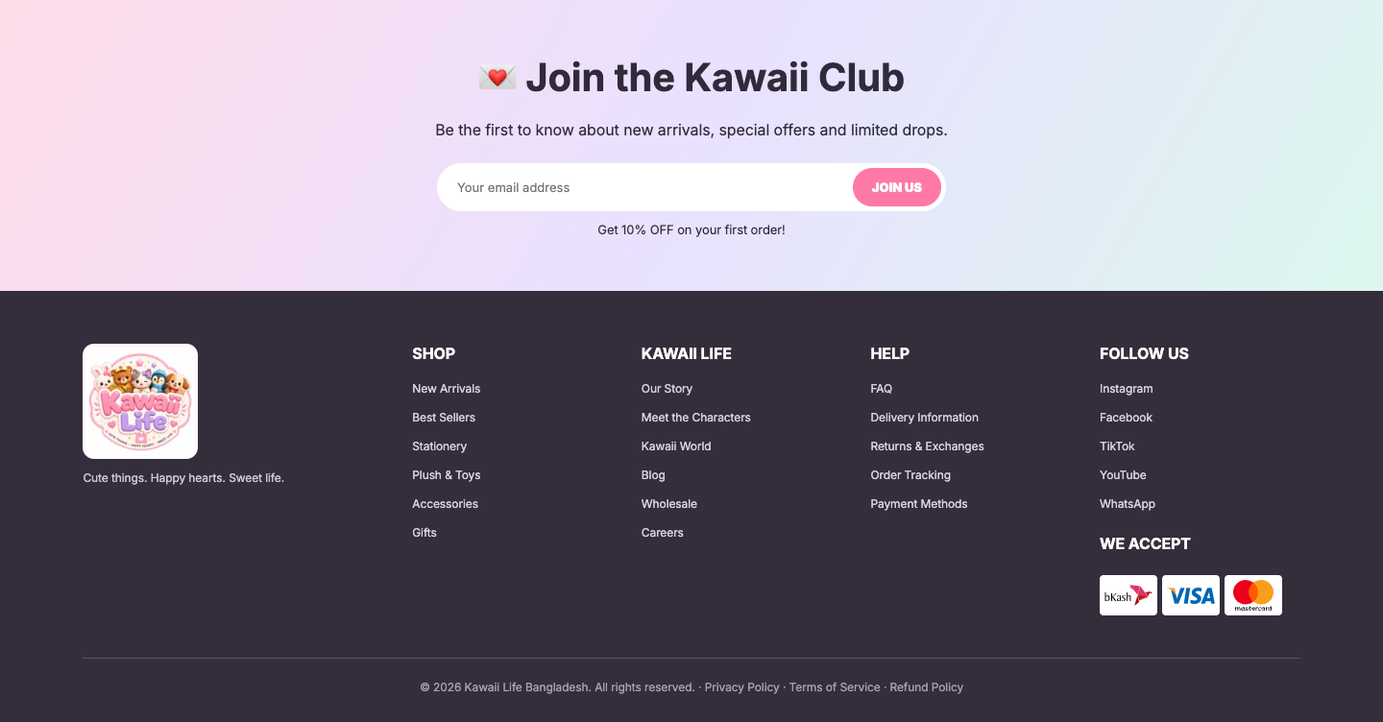
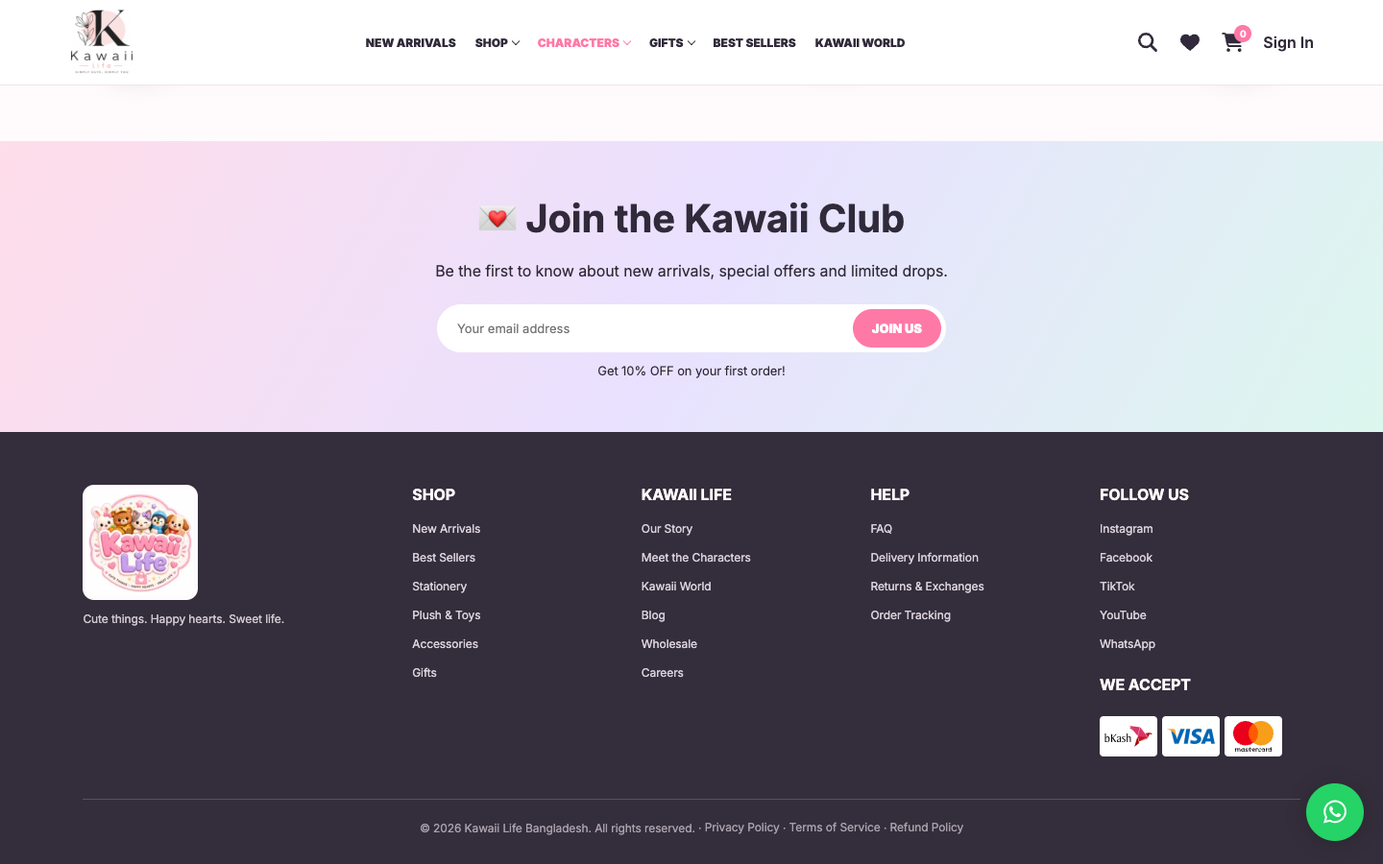
Cover the theme and plugin changes since the guide was written
Order flow statuses (Placed → Confirmed → Processing → Shipped →
Delivered, plus Returned), Steadfast sending and status sync, the
two-tab Order Tracking page, order-flow emails and the new email look,
NEW / BESTSELLER badges, gift box bundles, Theme Options' Animations,
Abandoned-cart SMS and Social profiles, SMS Contacts export, Most Added
Products and the report shortcuts in the Kawaii Life menu. "Not live
yet" drops what is now done, and outdated screenshots are retaken.

diff --git a/guide/02-theme-options.md b/guide/02-theme-options.md
@@ -4,7 +4,7 @@
 
 **Where:** **Kawaii Life → Theme Options**
 
-Theme Options holds the shop-wide settings that were built for Kawaii Life. The sections are listed on the left. Click one to open it, change what you need, then click the pink **Save Changes** button (top-right or at the bottom).
+Theme Options holds the shop-wide settings that were built for Kawaii Life. It's the first item under **Kawaii Life**, so clicking **Kawaii Life** itself opens it too. The sections are listed on the left. Click one to open it, change what you need, then click the pink **Save Changes** button (top-right or at the bottom).
 
 ## 2.1 Header: announcement bar, logo and icons
 
@@ -39,7 +39,11 @@ Theme Options holds the shop-wide settings that were built for Kawaii Life. The 
 - **Page heading**: the **Title** ("All Products"), the **Title emoji** (🎀) and the **Short description** under it. The emoji also shows on category pages. Leave the description empty to hide it.
 - **Catalog → Products per page**: how many products each page of the shop shows.
 - **Price ranges**: the price choices in the shop's filter sidebar. Each range has a **Min price** and a **Max price**. Leave Min empty for "Under …" or Max empty for "Over …"; the labels are written for you.
-- **Product cards**: show or hide the **Sale badge**, the **Star rating** and a **Quick add to cart** button on each product card.
+- **Product cards**: show or hide the **Sale badge**, the **Star rating** and a **Quick add to cart** button on each product card, and set up the two automatic badges:
+  - **NEW badge**: marks products published in the last **NEW badge active days** (30 by default).
+  - **Bestseller badge**: marks products that have sold at least the **Bestseller sales threshold** (20 by default).
+
+  The badges show in the corner of the product card and on the product page's main picture. One product can be set differently: see [7.7 NEW and BESTSELLER badges](07-products.md#77-new-and-bestseller-badges).
 
 ![The shop page with its heading, filters and product cards](../images/fe-shop.png)
 
@@ -63,14 +67,20 @@ This section works out the **estimated delivery dates** customers see on product
 - **Holidays**: click **+ Add holiday** for Eid and other closures. Give it a name and a **From** date; add a **To** date if it's longer than one day. Holiday days are skipped when the dates are worked out.
 - **Product page**: shows or hides the "Expected delivery" line on product pages. **When the zone is unknown** decides what a visitor who hasn't given an address sees. **Label** is the text in front of the dates.
 
+- **Order tracking**: the two ways shoppers can look up an order on the **Order Tracking** page, each its own tab. **Order number + phone** finds an order by its number and the phone it was placed with. **Steadfast parcel tracking** takes a Steadfast tracking link or code. Switch one off and the page shows the other without tabs; switch both off and the page says tracking isn't available.
+
 💡 Once an order is placed, its delivery dates are saved with it. Changing these settings later doesn't change dates you've already promised.
 
 ## 2.5 General
 
 ![Theme Options, General section](../images/to-general.png)
 
+- **Tagline**: the line under the logo at the bottom of every email the shop sends. Empty, the emails say "Cute things. Happy hearts. Sweet life."
 - **Support email**: the address the "Email us" buttons on the information pages use. If it's empty, those buttons are hidden.
 - **Dummy email extension**: used for accounts made with a phone number only. Leave this as it is.
+- **Animations**: the gentle movement on the shop: pages and sections sliding in, product cards appearing a row at a time, and the small pops when something goes into the cart or wishlist. Switch **Animate the storefront** off and every page shows at once and stays still. Visitors whose phone or computer asks for less motion never see the animations either way.
+- **Abandoned-cart SMS**: texts a shopper who left items in their cart a link back to it, at the same time as the first reminder email (see [20.1](20-sms-email-newsletter.md#201-sms-alpha-sms)). Switch **Text abandoned carts** off to send only the emails.
+- **Social profiles**: your Facebook, Instagram, TikTok, YouTube and WhatsApp addresses. They make the **Follow Us** links in the footer and the icons at the bottom of the emails. A channel left empty isn't shown. For WhatsApp, use a chat link: `https://wa.me/` followed by the number with the country code, no + or spaces (for example `https://wa.me/8801712345678`).
 
 ## 2.6 Sections that aren't connected yet
 
@@ -78,8 +88,7 @@ These sections are in Theme Options, but changing them doesn't change the site y
 
 | Section | Edit it here instead |
 | --- | --- |
-| **General → Tagline** | **Settings → General → Tagline** |
-| **General → Social profiles** | The footer, in **Appearance → Editor** (see [section 4](04-footer-and-newsletter.md)) |
+| **General → Tagline** (for the website footer) | **Settings → General → Tagline**. The Theme Options tagline is used in the emails only |
 | **Home page → Hero** | The **Hero Slider** block on the Home page (see [section 6.2](06-home-page.md#62-the-hero-slider)) |
 | **Home page → Friends** | **Products → Friends**, and the Friends block on the Home page |
 | **Wishlist** | **TI Wishlist → General Settings** |

diff --git a/guide/10-orders.md b/guide/10-orders.md
@@ -7,7 +7,7 @@
 ![The orders list](../images/orders-list.png)
 
 - **New orders** appear at the top. The number next to **Orders** in the menu is how many are waiting.
-- Use the status links above the list (**Processing**, **On hold**, **Pending payment** …) to filter.
+- Use the status links above the list (**Placed**, **Confirmed**, **Processing**, **Shipped** …) to filter.
 - 💡 **Pending payment** lists orders that were started but not paid: your incomplete orders.
 - Search by order number, customer name, phone or email with the box at the top-right. A barcode scanner works here too: scan an invoice or order label to find the order.
 
@@ -17,19 +17,49 @@ Click an order to open it.
 
 ![An order](../images/order-edit.png)
 
-- **Status**: change it as the order moves along, then click **Update**:
-  - **Pending payment**: started, not paid.
-  - **Processing**: paid or Cash on Delivery; pack it.
-  - **On hold**: waiting for you to confirm a bank payment.
-  - **Completed**: delivered.
-  - **Cancelled**, **Refunded**, **Failed**.
+- **Status**: change it as the order moves along, then click **Update** (see [10.2](#102-the-order-flow) for the whole flow).
 - **Shipping** shows the delivery address and phone, and the **Estimated delivery** dates the customer was promised.
 - **Billing** is filled in from the delivery address automatically. Customers only ever see their delivery address.
-- **To change items**, set the order's status to **On hold** or **Pending payment** first. Then use **Add item(s)**, change quantities, or click **×** on an item, and click **Recalculate**.
+- **To change items**, set the order's status to **Placed** or **Pending payment** first. Then use **Add item(s)**, change quantities, or click **×** on an item, and click **Recalculate**.
 - **Order notes** (right): add a **Private note** for your team, or a **Note to customer**, which emails them.
 - **Order actions** (top-right): resend the order emails to the customer.
 
-💡 Customers get an email when their order is received, starts processing and is completed. Their order page in **My Account** and the **Order Tracking** page show the same status.
+💡 To move many orders at once, tick them in the list, choose **Change status to …** from **Bulk actions** and click **Apply**.
+
+## 10.2 The order flow
+
+Every order moves through the same steps:
+
+**Placed → Confirmed → Processing → Shipped → Delivered**
+
+| Status | What it means | How it gets there |
+| --- | --- | --- |
+| **Pending payment** | Started, not paid | By itself, when an online payment isn't finished |
+| **Placed** | A new order waiting for you | By itself: every Cash on Delivery and bank transfer order starts here |
+| **Confirmed** | You've called the customer (COD) or seen the money (bank transfer) | You set it. An order paid online starts here |
+| **Processing** | Being packed | You set it |
+| **Shipped** | With the courier | By itself when you send the order to Steadfast ([10.3](#103-sending-orders-to-steadfast)), or you set it |
+| **Delivered** | The customer has it | By itself from Steadfast, or you set it |
+| **Returned** | The parcel came back: refused, unreachable or sent back | By itself from Steadfast, or you set it. The items go back into stock and the order is left out of the sales reports |
+| **Cancelled**, **Refunded**, **Failed** | As WooCommerce has always had them | |
+
+The customer is emailed at each step ([20.2](20-sms-email-newsletter.md#202-order-emails)), and can follow the order on a five-step tracker in **My Account** and on the **Order Tracking** page, each step with the date and time it was reached.
+
+💡 *Placed* and *Delivered* are WooCommerce's *On hold* and *Completed* under the shop's own names, so plugins and reports that mention On hold or Completed mean these.
+
+## 10.3 Sending orders to Steadfast
+
+**Where:** **WooCommerce → Orders**, and **SteadFast** in the menu for the account settings
+
+In the orders list, the **Send to SteadFast** column has a **Send** button on each order. The **Amount** box beside it is the cash the courier collects: leave it empty to collect the order total, or type `0` for an order that's already paid. To send many at once, tick the packed orders, choose **Send to SteadFast** from **Bulk actions** and click **Apply**.
+
+Each order gets a Steadfast consignment and its **tracking code**, and moves to **Shipped** by itself. The Shipped email gives the customer the tracking code and a **Track your order** button.
+
+When Steadfast reports the parcel delivered, the order moves to **Delivered**; if it comes back, to **Returned**. This happens through Steadfast's webhook, or when you click **Check** in the order's **DeliveryStatus** column. A part delivery (the customer kept some items) is marked Delivered, with an order note reminding you to refund the items that come back.
+
+💡 Orders only ever move forward by themselves, and an order that's Cancelled, Refunded, Failed or Returned is never reopened.
+
+⚠ The webhook needs the **Webhook Callback URL** and **Webhook Secret Token** from **SteadFast** pasted into the API Webhook section of your Steadfast merchant dashboard. Without them, statuses only update when you click **Check**.
 
 ---
 

diff --git a/guide/20-sms-email-newsletter.md b/guide/20-sms-email-newsletter.md
@@ -11,9 +11,20 @@
 Alpha SMS sends the login and sign-up codes, and can text customers when their order changes status.
 
 - **Balance** shows how much SMS credit is left.
-- **Notify Customer**: switch on the order statuses you want a text for (for example *Processing* and *Completed*), then click **Save all changes**.
+- **Notify Customer**: switch on the order statuses you want a text for (for example *Confirmed*, *Shipped* and *Delivered*), then click **Save all changes**. Every step of the order flow ([10.2](10-orders.md#102-the-order-flow)) is listed.
 - **Notify Admin on New Order** texts you when an order comes in.
 - **Alpha SMS → Campaign** sends one message to many customers at once.
+- **Abandoned carts**: a shopper who leaves items in their cart gets one text with a link back to it, at the same time as Cart Abandonment Recovery's first reminder email, to the phone they typed at checkout. Switch it off in **Theme Options → General → Abandoned-cart SMS** ([2.5](02-theme-options.md#25-general)).
+
+**Promotional campaigns: SMS Contacts**
+
+**Where:** **Kawaii Life → SMS Contacts**
+
+1. Optionally choose **Last ordered within** to keep only recent customers.
+2. Click **Download CSV**. The file lists each customer's phone once, written as `8801XXXXXXXXX`, with their name, number of orders, last order date and total spent. Numbers seen only on failed or cancelled orders are left out.
+3. Upload the file to your Alpha SMS panel and send the campaign from there.
+
+![SMS Contacts](../images/sms-contacts.png)
 
 ⚠ If the balance runs out, customers can't log in or sign up. Top it up on your Alpha SMS account. The record of sent messages is on the Alpha SMS website.
 
@@ -23,7 +34,23 @@ Alpha SMS sends the login and sign-up codes, and can text customers when their o
 
 **Where:** **WooCommerce → Settings → Emails**
 
-Each email (New order, Processing order, Completed order …) can be switched on or off and its subject and heading changed. The **Email sender options** at the bottom set the "From" name and address.
+Customers get an email at each step of the order flow ([10.2](10-orders.md#102-the-order-flow)):
+
+| Email | Sent when the order is |
+| --- | --- |
+| **Order placed** | Placed: a COD order before you call to confirm it, or a bank transfer before the money arrives |
+| **Order confirmed** | Confirmed |
+| **Order shipped** | Shipped, with the Steadfast tracking code and a **Track your order** button |
+| **Order delivered** | Delivered |
+| **Order returned** | Returned |
+
+The others link to the order in the customer's **My Account** (or, for a guest, to the Order Tracking page). WooCommerce's own **Processing order** email is switched off, since Confirmed already tells the customer; switch it on here if you want it.
+
+Each email can be switched on or off and its subject and heading changed: click **Manage**. The **Email sender options** at the bottom set the "From" name and address.
+
+**The look.** Every email the shop sends (orders, accounts, password resets) is in the Kawaii Life style: the logo, a white rounded card with a pink-to-lavender stripe, a small emoji badge for the kind of email, and a dark footer with the tagline, links to the shop, Order Tracking and My Account, and your social links. The tagline and social links come from **Theme Options → General** ([2.5](02-theme-options.md#25-general)). To see one, scroll to **Email preview** at the bottom of this page and pick the email from the drop-down.
+
+<img src="../images/email-preview.png" alt="An order email in the Kawaii Life style" width="420">
 
 ## 20.3 Newsletter (Brevo)
 

diff --git a/guide/07-products.md b/guide/07-products.md
@@ -17,6 +17,7 @@
    - **Linked Products**: see [7.5](#75-you-may-also-like-and-complete-your-set).
    - **Attributes** and **Variations**: for sizes or colours (see [7.4](#74-products-with-colours-sizes-or-styles)).
    - **Product page**: Kawaii Life's own tab (see [7.3](#73-the-product-page-tab-taglines-video-shipping-and-returns-text)).
+   - **Product Badges**: the NEW and BESTSELLER badges for this product (see [7.7](#77-new-and-bestseller-badges)).
 4. On the right:
    - **Product categories**: tick its category.
    - **Friends**: tick the character(s), if it's a character product.
@@ -79,6 +80,46 @@ Customers can give a review a title and attach one photo or video. Reviews with 
 
 - Hover over a review and click **Approve** to publish it, **Spam** or **Trash** to remove it.
 - The **Photo / video** column shows what they attached. Check it before approving.
+
+## 7.7 NEW and BESTSELLER badges
+
+Product cards and the product page's main picture can carry a small **NEW** or **BESTSELLER** badge in the corner, next to the Sale badge. They're added by themselves:
+
+- **NEW**: products published in the last 30 days.
+- **BESTSELLER**: products whose total sales reach the threshold you set.
+
+Both numbers, and switches to turn each badge off for the whole shop, are in **Kawaii Life → Theme Options → Shop page → Product cards** (see [2.2](02-theme-options.md#22-shop-page)).
+
+**To change one product's badges**, edit the product and open the **Product Badges** tab in **Product data**:
+
+![The Product Badges tab](../images/product-badges-tab.png)
+
+- **NEW badge**: **Automatic (based on publish date)** is the usual choice. **Always show** keeps the badge on (for a product you want to keep promoting as new); **Never show (disable)** keeps it off.
+- **Disable Bestseller**: tick it to never show the BESTSELLER badge on this product, however much it sells.
+
+Click **Update** to save.
+
+## 7.8 Gift boxes (bundles)
+
+The **Study Box**, **Kawaii Girl Box** and **Premium Gift Box** are **bundles**: one product made of several others. The product page lists what's inside, each item with its picture, and the cart, cart drawer and checkout show the box with its items underneath.
+
+**To make a new gift box:**
+
+1. Click **Add new product** and type its name, description and pictures as for any product.
+2. In **Product data**, change the drop-down at the top to **Smart bundle**.
+3. In the **Bundled Products** tab, search for each product to put in the box and set how many of each.
+4. **Price**: by itself, the box costs the items' prices added up (less any **Discount** you set in the same tab). To charge your own price instead, as the three gift boxes do, tick **Disable auto calculate price.** and type the price in **General**.
+5. Click **Publish**.
+
+![The Bundled Products tab of a gift box](../images/product-bundle-tab.png)
+
+On the site, the box's page lists everything inside it:
+
+![A gift box on the site](../images/fe-bundle.png)
+
+The shop-wide bundle options (where the item list sits on the product page, how the price is shown) are under **WPClever → Product Bundles**.
+
+💡 Unless you tick **Enable stock management at bundle level.**, a box is in stock only while every item in it is.
 
 ---
 

diff --git a/guide/14-customer-experience.md b/guide/14-customer-experience.md
@@ -4,7 +4,7 @@
 
 You don't need to set these up; they're shown here so you know what customers see.
 
-**Cart**: with the free-delivery progress bar and "You will love these" suggestions.
+**Cart**: with the free-delivery progress bar and "You will love these" suggestions. A gift box is listed with the items inside it, in the cart, the cart drawer and checkout.
 
 ![The cart page](../images/fe-cart.png)
 
@@ -12,7 +12,7 @@ You don't need to set these up; they're shown here so you know what customers se
 
 ![The checkout page](../images/fe-checkout.png)
 
-**My Account**: a greeting, order and wishlist counts and the latest orders. The menu on the left has My Orders, Downloads, Saved Address, My Wishlist, Account Management (name, phone, photo) and Change Password.
+**My Account**: a greeting, order and wishlist counts and the latest orders. The menu on the left has My Orders, Downloads, Saved Address, My Wishlist, Account Management (name, phone, photo) and Change Password. **My Orders** has two tabs: **Active** (Placed, Confirmed, Processing, Shipped) and **Previous** (Delivered, Cancelled, Refunded, Failed and Returned).
 
 ![My Account dashboard](../images/fe-account.png)
 
@@ -22,7 +22,7 @@ You don't need to set these up; they're shown here so you know what customers se
 
 ![Account Management](../images/fe-account-details.png)
 
-**One order**: status, estimated delivery, items, delivery address and invoice.
+**One order**: status, estimated delivery, the five-step tracker (Placed, Confirmed, Processing, Shipped, Delivered, each with its date and time), items, delivery address and invoice. A returned order shows a Returned notice instead of the tracker.
 
 ![A single order in My Account](../images/fe-thankyou.png)
 
@@ -33,6 +33,8 @@ You don't need to set these up; they're shown here so you know what customers se
 The wishlist's own options (who can use it, sharing, button text) are under **TI Wishlist → General Settings**.
 
 ![TI Wishlist settings](../images/ti-wishlist.png)
+
+**Animations**: pages and sections slide in gently, product cards appear a row at a time, and the cart and wishlist icons give a small pop when something is added. Checkout and the login card stay still. Turn the animations off in **Theme Options → General → Animations** ([2.5](02-theme-options.md#25-general)).
 
 **Search**: the search box in the header and the shop sidebar suggests products with their prices as the shopper types. Its options are under **WooCommerce → FiboSearch**.
 

diff --git a/guide/24-not-live-yet.md b/guide/24-not-live-yet.md
@@ -7,17 +7,12 @@ These parts of the agreed project are still being finished. Until they're done, 
 | Feature | Today |
 | --- | --- |
 | **bKash, Nagad and SSLCommerz payments** | Only Cash on Delivery and Bank Transfer are on (**WooCommerce → Settings → Payments**). |
-| **Steadfast and Pathao courier** | Not connected. Book deliveries with the courier directly. |
-| **Confirmed, Shipped, Delivered and Returned order statuses** | Use WooCommerce's statuses (section 10.1). The Order Tracking timeline completes when an order is **Completed**. |
-| **COD verification, payment, abandoned-cart and promotional SMS** | Not built yet. Order SMS and login codes work. |
-| **NEW and BESTSELLER badges** | Product cards show only the Sale badge. |
-| **Gift box bundles** | Gift boxes are sold as ordinary products. |
+| **Pathao courier** | Not connected. Book Pathao deliveries with the courier directly. Steadfast is connected (section 10.3). |
+| **COD verification and payment SMS** | Not built yet. Order status SMS, login codes and abandoned-cart texts work, and promotional campaigns are sent from Alpha SMS with the **SMS Contacts** export (section 20.1). |
 | **"Just for You" on the home page** | The block exists; it will be added to the home page. |
-| **Footer social links and WhatsApp chat button** | Social links point nowhere until you add your profiles (section 4). The WhatsApp button needs the shop's number. |
+| **WhatsApp chat button** | Needs the shop's number. (The footer's social links appear once you add your profiles in Theme Options, section 2.5.) |
 | **Google and Facebook login buttons** | They're shown on the login card but don't work yet. |
-| **Order email branding** | Emails use WooCommerce's default look. |
 | **Blocking fraudulent customers** | Not available yet. |
-| **Payment Methods page** | Empty; needs your content. |
 
 ![Payment settings](../images/wc-payments.png)
 

diff --git a/guide/18-information-pages.md b/guide/18-information-pages.md
@@ -11,10 +11,9 @@ All of these are ordinary pages under **Pages**, built from Kawaii Life's blocks
 | **Delivery Information** | Delivery zones, times and charges are typed into the **Delivery Zones** block. ⚠ They don't update from your shipping settings, so change them here if your charges change. |
 | **Returns & Exchanges** | Return steps, what can be returned, and the **Return request** form. |
 | **Wholesale** | Price tiers and the wholesale inquiry form. |
-| **Order Tracking** | Shoppers type their order number and their email or phone to see the order's status and timeline. Nothing to set up. |
+| **Order Tracking** | Two tabs. **Order number**: shoppers type their order number and the phone they ordered with, and see the order's summary and five-step timeline. **Steadfast parcel**: they paste a Steadfast tracking link or code (from the Shipped email) and see the parcel's status and updates, or paste the order link from an email. Switch either tab off in **Theme Options → Delivery → Order tracking** ([2.4](02-theme-options.md#24-delivery)). |
 | **Careers** | Job openings come from **JobPress** (see below). |
 | **Privacy Policy**, **Terms of Service** | **Policy** blocks. Each numbered **Policy Section** is listed under "On this page". |
-| **Payment Methods** | ⚠ Empty. Add your payment information here before launch. |
 
 ![The FAQ page](../images/fe-faq.png)
 

diff --git a/guide/25-quick-answers.md b/guide/25-quick-answers.md
@@ -23,6 +23,18 @@ Check your Alpha SMS balance, and that they typed their number as `01XXXXXXXXX`.
 **A customer wants to change their delivery address on an order.**
 Open the order, click the pencil ✏ next to **Shipping**, change it and click **Update**.
 
+**A customer can't find their order on the Order Tracking page.**
+On the **Order number** tab they need the order number and the phone number they ordered with (any way of writing it works: 017…, +88017…). Once the order is shipped, the Steadfast tracking code from the Shipped email works on the **Steadfast parcel** tab.
+
+**An order is stuck on Shipped though the customer has it.**
+Click **Check** in the order's **DeliveryStatus** column in **WooCommerce → Orders**, or set the order to **Delivered** yourself. If this keeps happening, check the Steadfast webhook (section 10.3).
+
+**The footer's Follow Us links are missing.**
+Fill in your profiles in **Kawaii Life → Theme Options → General → Social profiles** and click **Save Changes**.
+
+**The site's animations feel too busy.**
+Switch them off in **Kawaii Life → Theme Options → General → Animations**.
+
 **How do I print today's packing slips?**
 In **WooCommerce → Orders**, tick the orders, choose **Print Packing slip** from **Bulk actions** and click **Apply**.
 

diff --git a/guide/04-footer-and-newsletter.md b/guide/04-footer-and-newsletter.md
@@ -17,7 +17,7 @@ To edit them:
 ![Editing the footer in the Site Editor](../images/site-editor-footer.png)
 
 - **Footer links** (Shop, Kawaii Life, Help): click a link, then click the link icon in the small toolbar to change where it goes.
-- **Follow Us** links (Instagram, Facebook, TikTok, YouTube, WhatsApp): click each one and paste your profile address. ⚠ They point nowhere until you do this.
+- **Follow Us** links (Instagram, Facebook, TikTok, YouTube, WhatsApp) aren't edited here: they come from **Kawaii Life → Theme Options → General → Social profiles** (see [2.5](02-theme-options.md#25-general)). Only the channels you fill in are listed, and with none filled in the Follow Us heading is hidden too.
 - **We Accept**: the payment logos are images; click one to replace or remove it.
 - **The newsletter form** is the `[sibwp_form id=1]` box. Its fields and colours are edited in Brevo (see [section 20](20-sms-email-newsletter.md)).
 - Click **Save** (top-right) when you're done.

diff --git a/guide/15-activity-logs.md b/guide/15-activity-logs.md
@@ -2,7 +2,7 @@
 
 # 15. Wishlists, searches and carts (activity logs)
 
-**Where:** **Kawaii Life → Wishlist Logs / Search Log / Cart Log**
+**Where:** **Kawaii Life → Wishlist Logs / Search Log / Cart Log / Most Added Products**
 
 These pages show what shoppers are interested in. Use them to plan stock and promotions.
 
@@ -17,6 +17,10 @@ These pages show what shoppers are interested in. Use them to plan stock and pro
 **Cart Log**: products added to carts, by whom and when.
 
 ![Cart Log](../images/cart-log.png)
+
+**Most Added Products**: the products found most often in **abandoned carts** (carts that were filled but never checked out), with how many times each was left behind. Switch between **All Time**, **Last 7 Days** and **Last 30 Days** above the list. These are products people want but stop short of buying: good candidates for an offer or a reminder.
+
+![Most Added Products](../images/most-added-products.png)
 
 ## 15.1 How "Just for You" recommendations work
 

diff --git a/guide/01-logging-in.md b/guide/01-logging-in.md
@@ -16,8 +16,9 @@ You land on the **Dashboard**. The menu on the left lists everything you can man
 | **Pages** | The site's pages: Home, About Us, FAQ, Delivery Information and so on |
 | **Posts** | Blog articles (Kawaii World articles) |
 | **Videos** | Brand videos shown on the Kawaii World page |
-| **Kawaii Life** | Theme Options, plus the Wishlist, Search and Cart logs |
+| **Kawaii Life** | Theme Options, the Wishlist, Search and Cart logs, Most Added Products, SMS Contacts, and shortcuts to the sales, cart abandonment and search reports |
 | **WooCommerce → Orders** | Customer orders |
+| **SteadFast** | The courier: your Steadfast account, balance and settings |
 | **Products** | Products, categories, Friends (characters) and reviews |
 | **Marketing → Coupons** | Discount codes |
 | **Invoice/Packing** | Invoices, packing slips and shipping labels |

diff --git a/guide/22-reports.md b/guide/22-reports.md
@@ -14,7 +14,9 @@
 
 ![Cart Abandonment](../images/cart-abandonment.png)
 
-- **Kawaii Life → Search Log / Cart Log / Wishlist Logs**: see [section 15](15-activity-logs.md).
+- **Kawaii Life → Search Log / Cart Log / Wishlist Logs / Most Added Products**: see [section 15](15-activity-logs.md).
+
+💡 The **Kawaii Life** menu also has shortcuts to these reports, so the shop's numbers are in one place: **Product Sales Report** (Ninjalytics), **Cart Abandonment Report** (the follow-up list of abandoned carts) and **Search Analytics** (FiboSearch's search statistics). The cart abandonment list has a **Phone** column with the number typed at checkout, and its CSV export includes it, so you can call shoppers who didn't finish.
 
 ---
 
